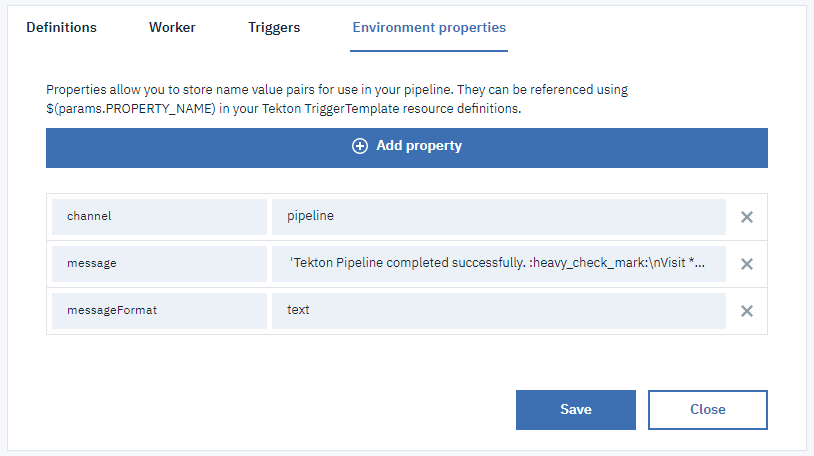
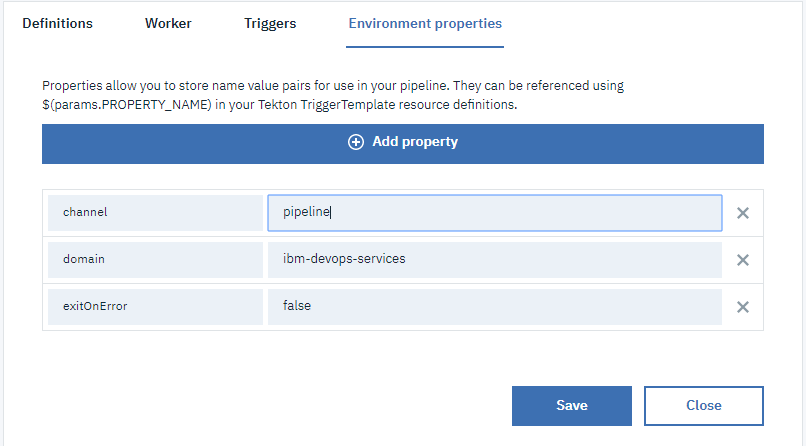
fix the readme - add the domain

diff --git a/communication/README.md b/communication/README.md
@@ -1,6 +1,15 @@
 # Post to Slack task helper
 This Task sends a message to the Slack channel(s) integrated to your [Continuous Delivery toolchain](https://cloud.ibm.com/docs/services/ContinuousDelivery?topic=ContinuousDelivery-integrations#slack).
 
+The task will retrieve the Slack integration(s) as set in your Toolchain,
+based on the Slack domain (passed as paremeter) and post the message to the corresponding channel(s).
+
+The message, passed as a parameter, can be:
+- a Slack formatted JSON payload,
+- a text message (that will be converted to Slack JSON payload)
+- dynamically injected by a bash script
+- default message if not set
+
 ## Prereq
 ### Slack
 Create a [Slack Webhook](https://api.slack.com/messaging/webhooks).
@@ -15,7 +24,8 @@ None.
 ### Parameters
 
 * **task-pvc**: the output pvc.
-* **channel**: (optional) the Slack channel to send the message to. (default value is '': all channels integrated to the toolchain will be notified).
+* **domain**: the Slack domain to send the message to.
+* **channel**: (optional) the Slack channel to send the message to. If not set, the default channel as set in the Slack Webhook URL will be used.
 * **messageFormat**: (optional) the format of the message. Value: text(default) or JSON.
 * **messageScript**: (optional) Shell script that provides messsage content.
 * **message**: (optional) the message to send to Slack.
@@ -41,11 +51,12 @@ The `sample` sub-directory contains an EventListener definition that you can inc
 
    ![Tekton pipeline definitions](./sample/sample-tekton-pipeline-definitions.png)
 
-3) (optional) Add the environment properties:
+3) Add the environment properties:
 
-   - `channel` the channel to post to.
-   - `messageFormat` the format of the message (text or JSON).
-   - `message` the message to post to Slack.
+   - `domain` the Slack domain to send the message to.
+   - `channel` (optional) the channel to post to (overrides the dafault channel as set in the Slack webhook).
+   - `messageFormat` (optional) the format of the message (text or JSON).
+   - `message` (optional) the message to post to Slack.
 
    ![Tekton pipeline environment properties](./sample/sample-tekton-pipeline-environment-properties.png)
 
